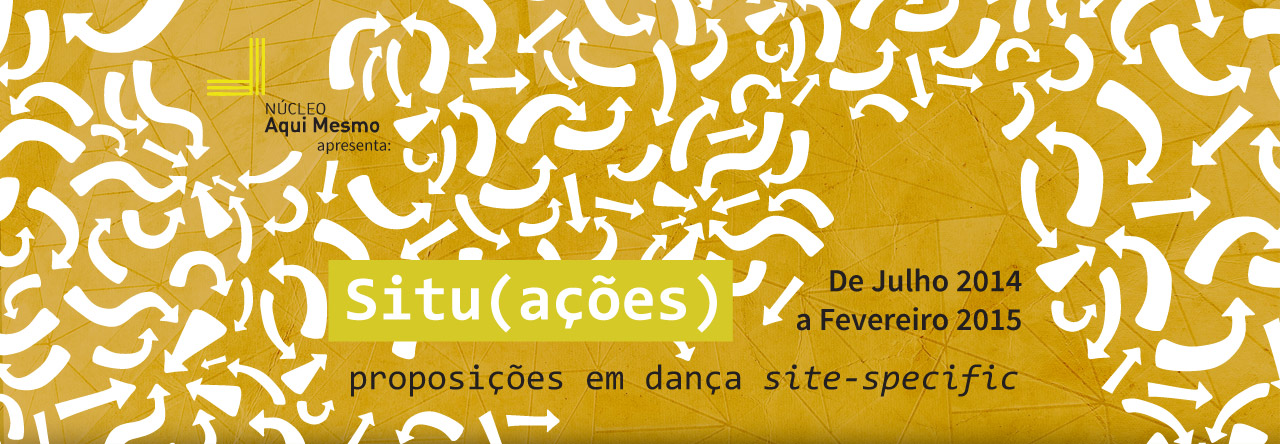
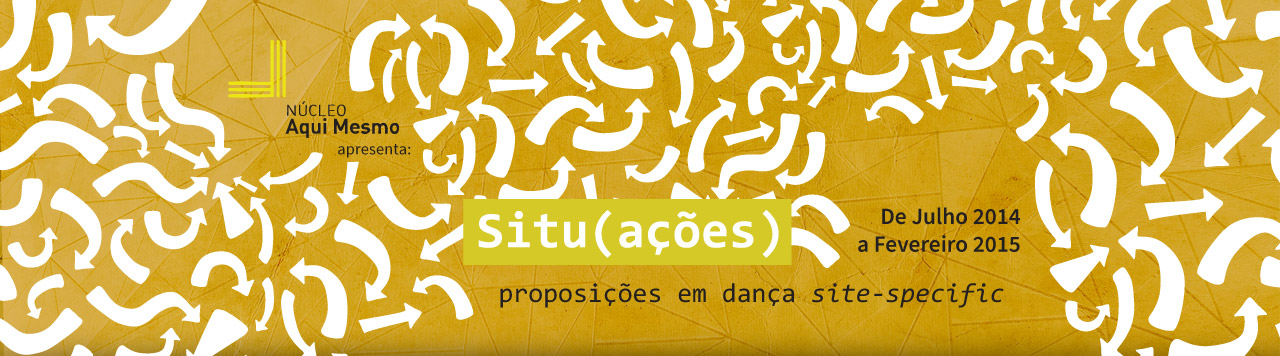
cabecalho do projeto situacoes reduzido

diff --git a/style.css b/style.css
@@ -475,7 +475,7 @@ a:active {
 #header-situacoes {
 	background: url(images/header-situacoes.jpg) no-repeat center top #D2A514;
 	margin: 0 auto 0;
-	height: 408px;
+	height: 320px;
 	padding: 35px 0 0 0;
 	position: relative;
 	text-align: center;
@@ -488,8 +488,8 @@ a:active {
 
 .link-header-situacoes {
 
-	float: left;
-    height: 400px;
+    float: left;
+    height: 340px;
     margin: 0 auto;
     width: 100%;
 }
